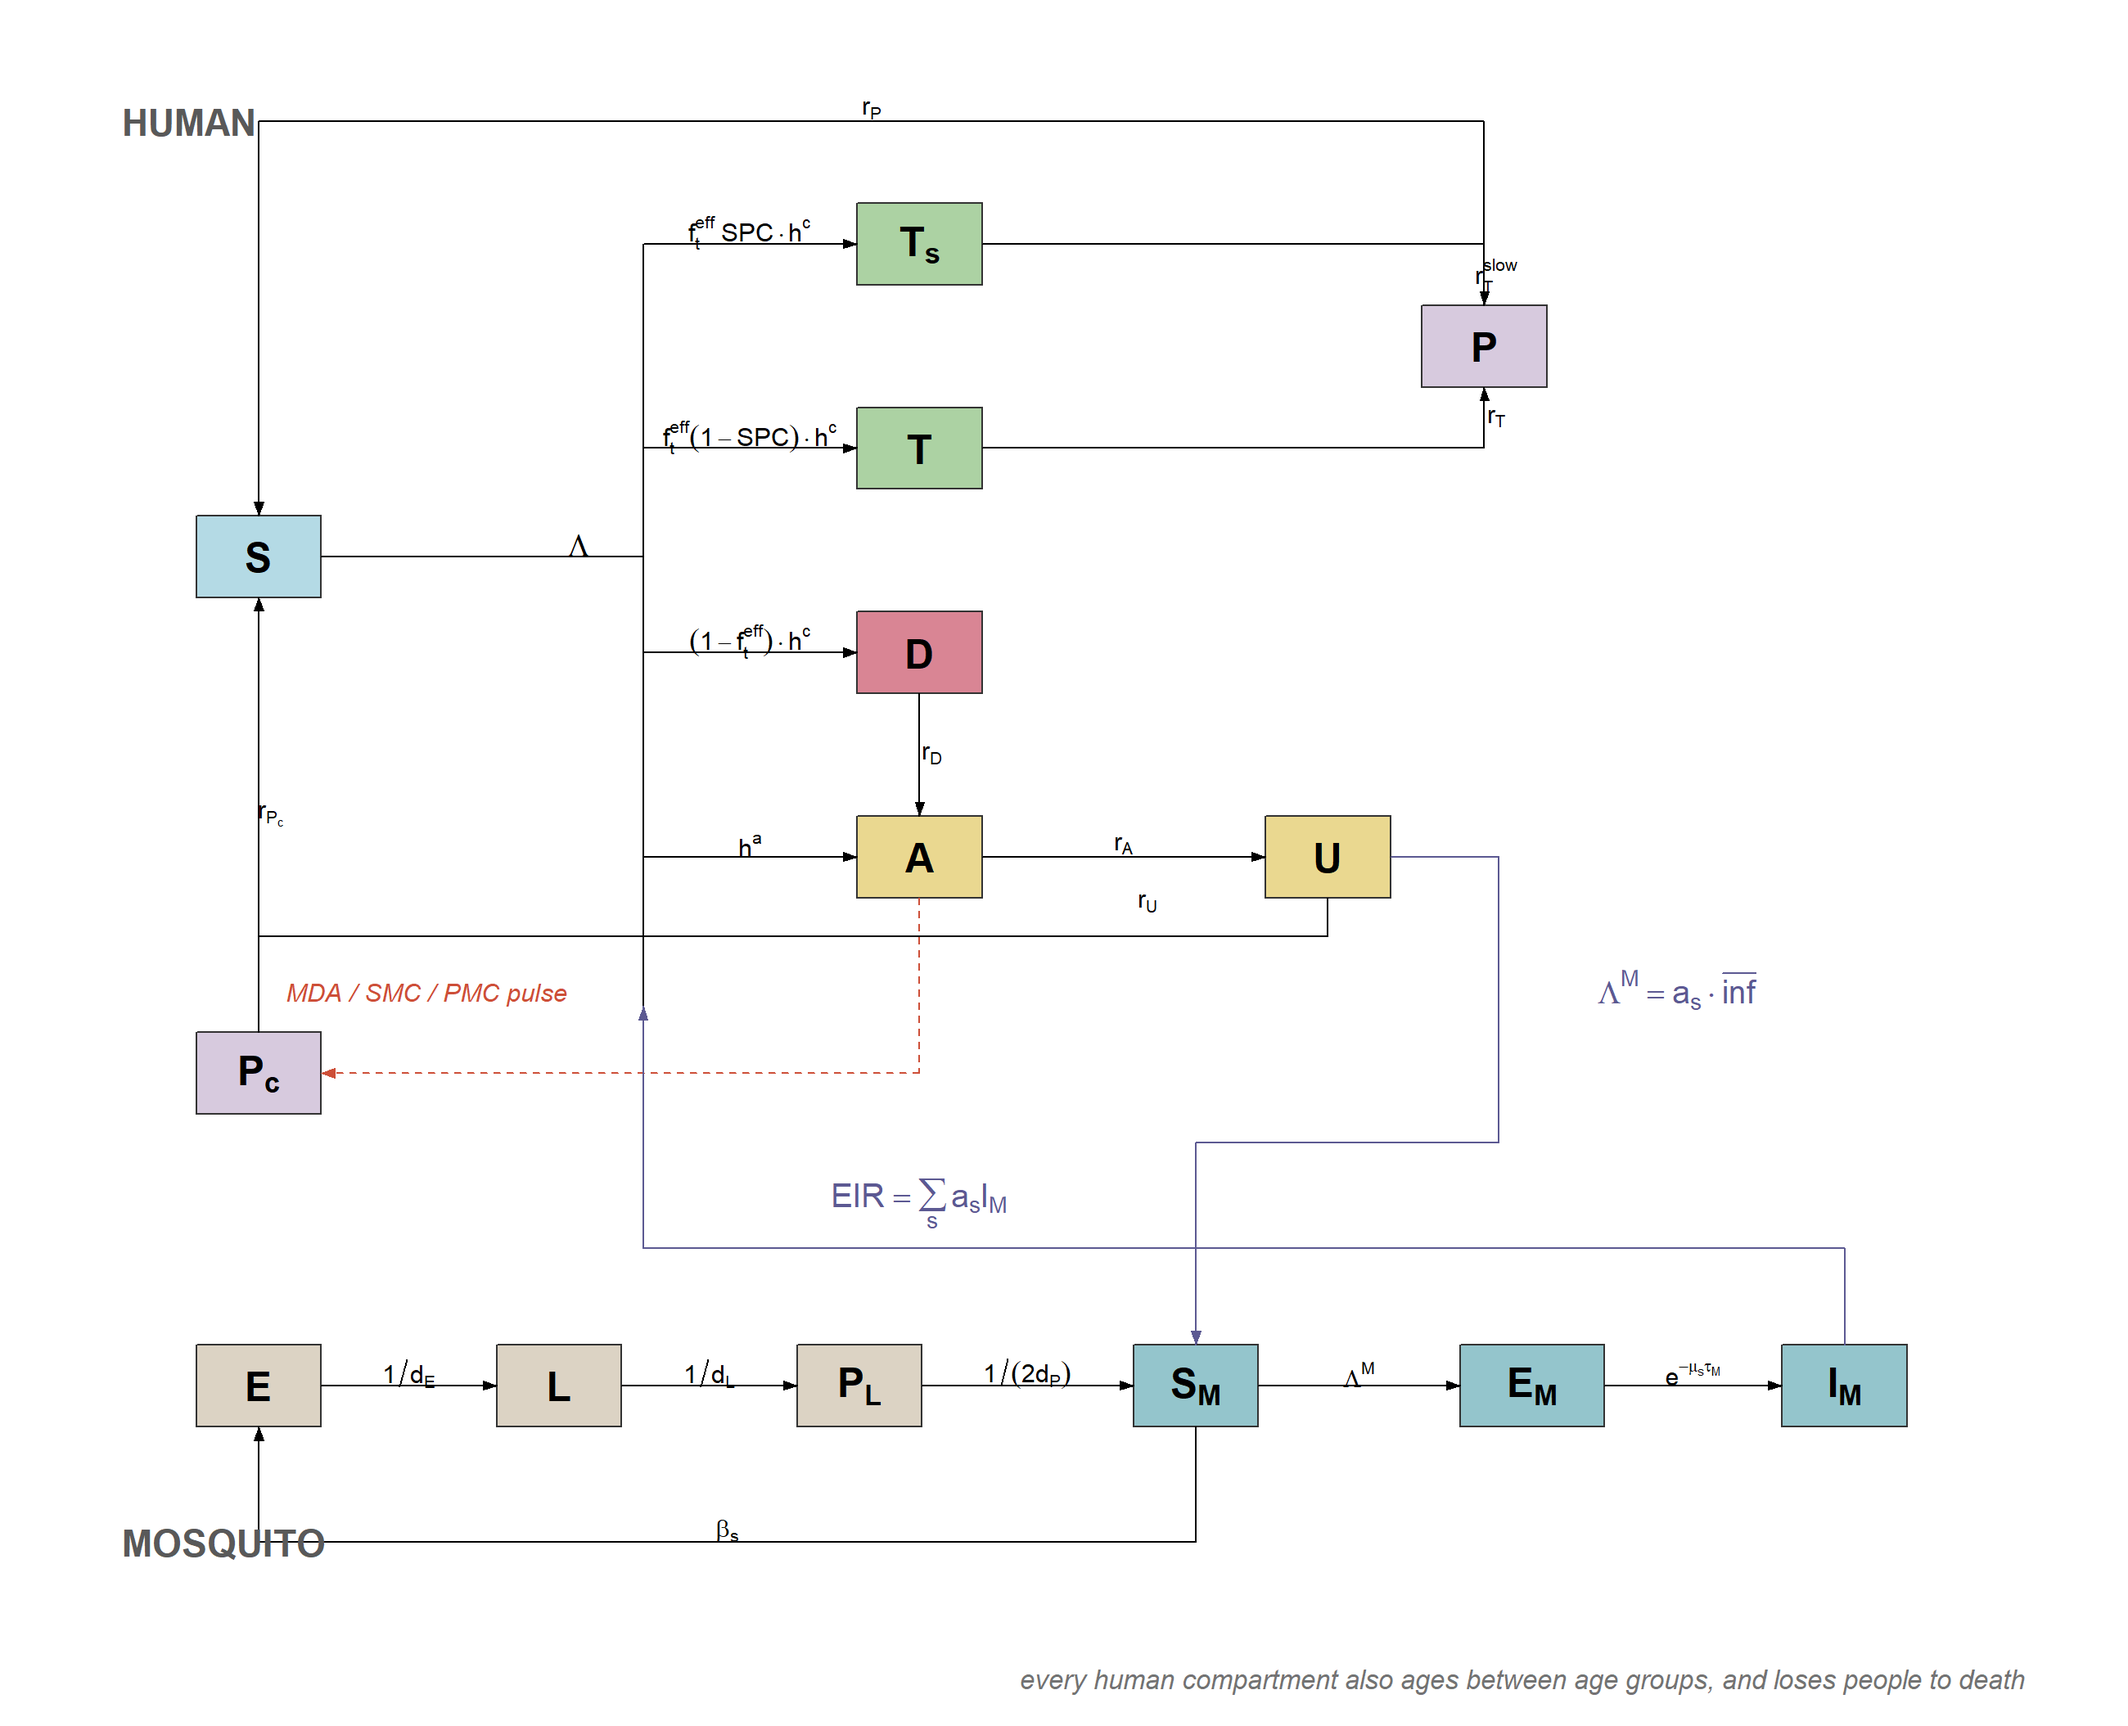
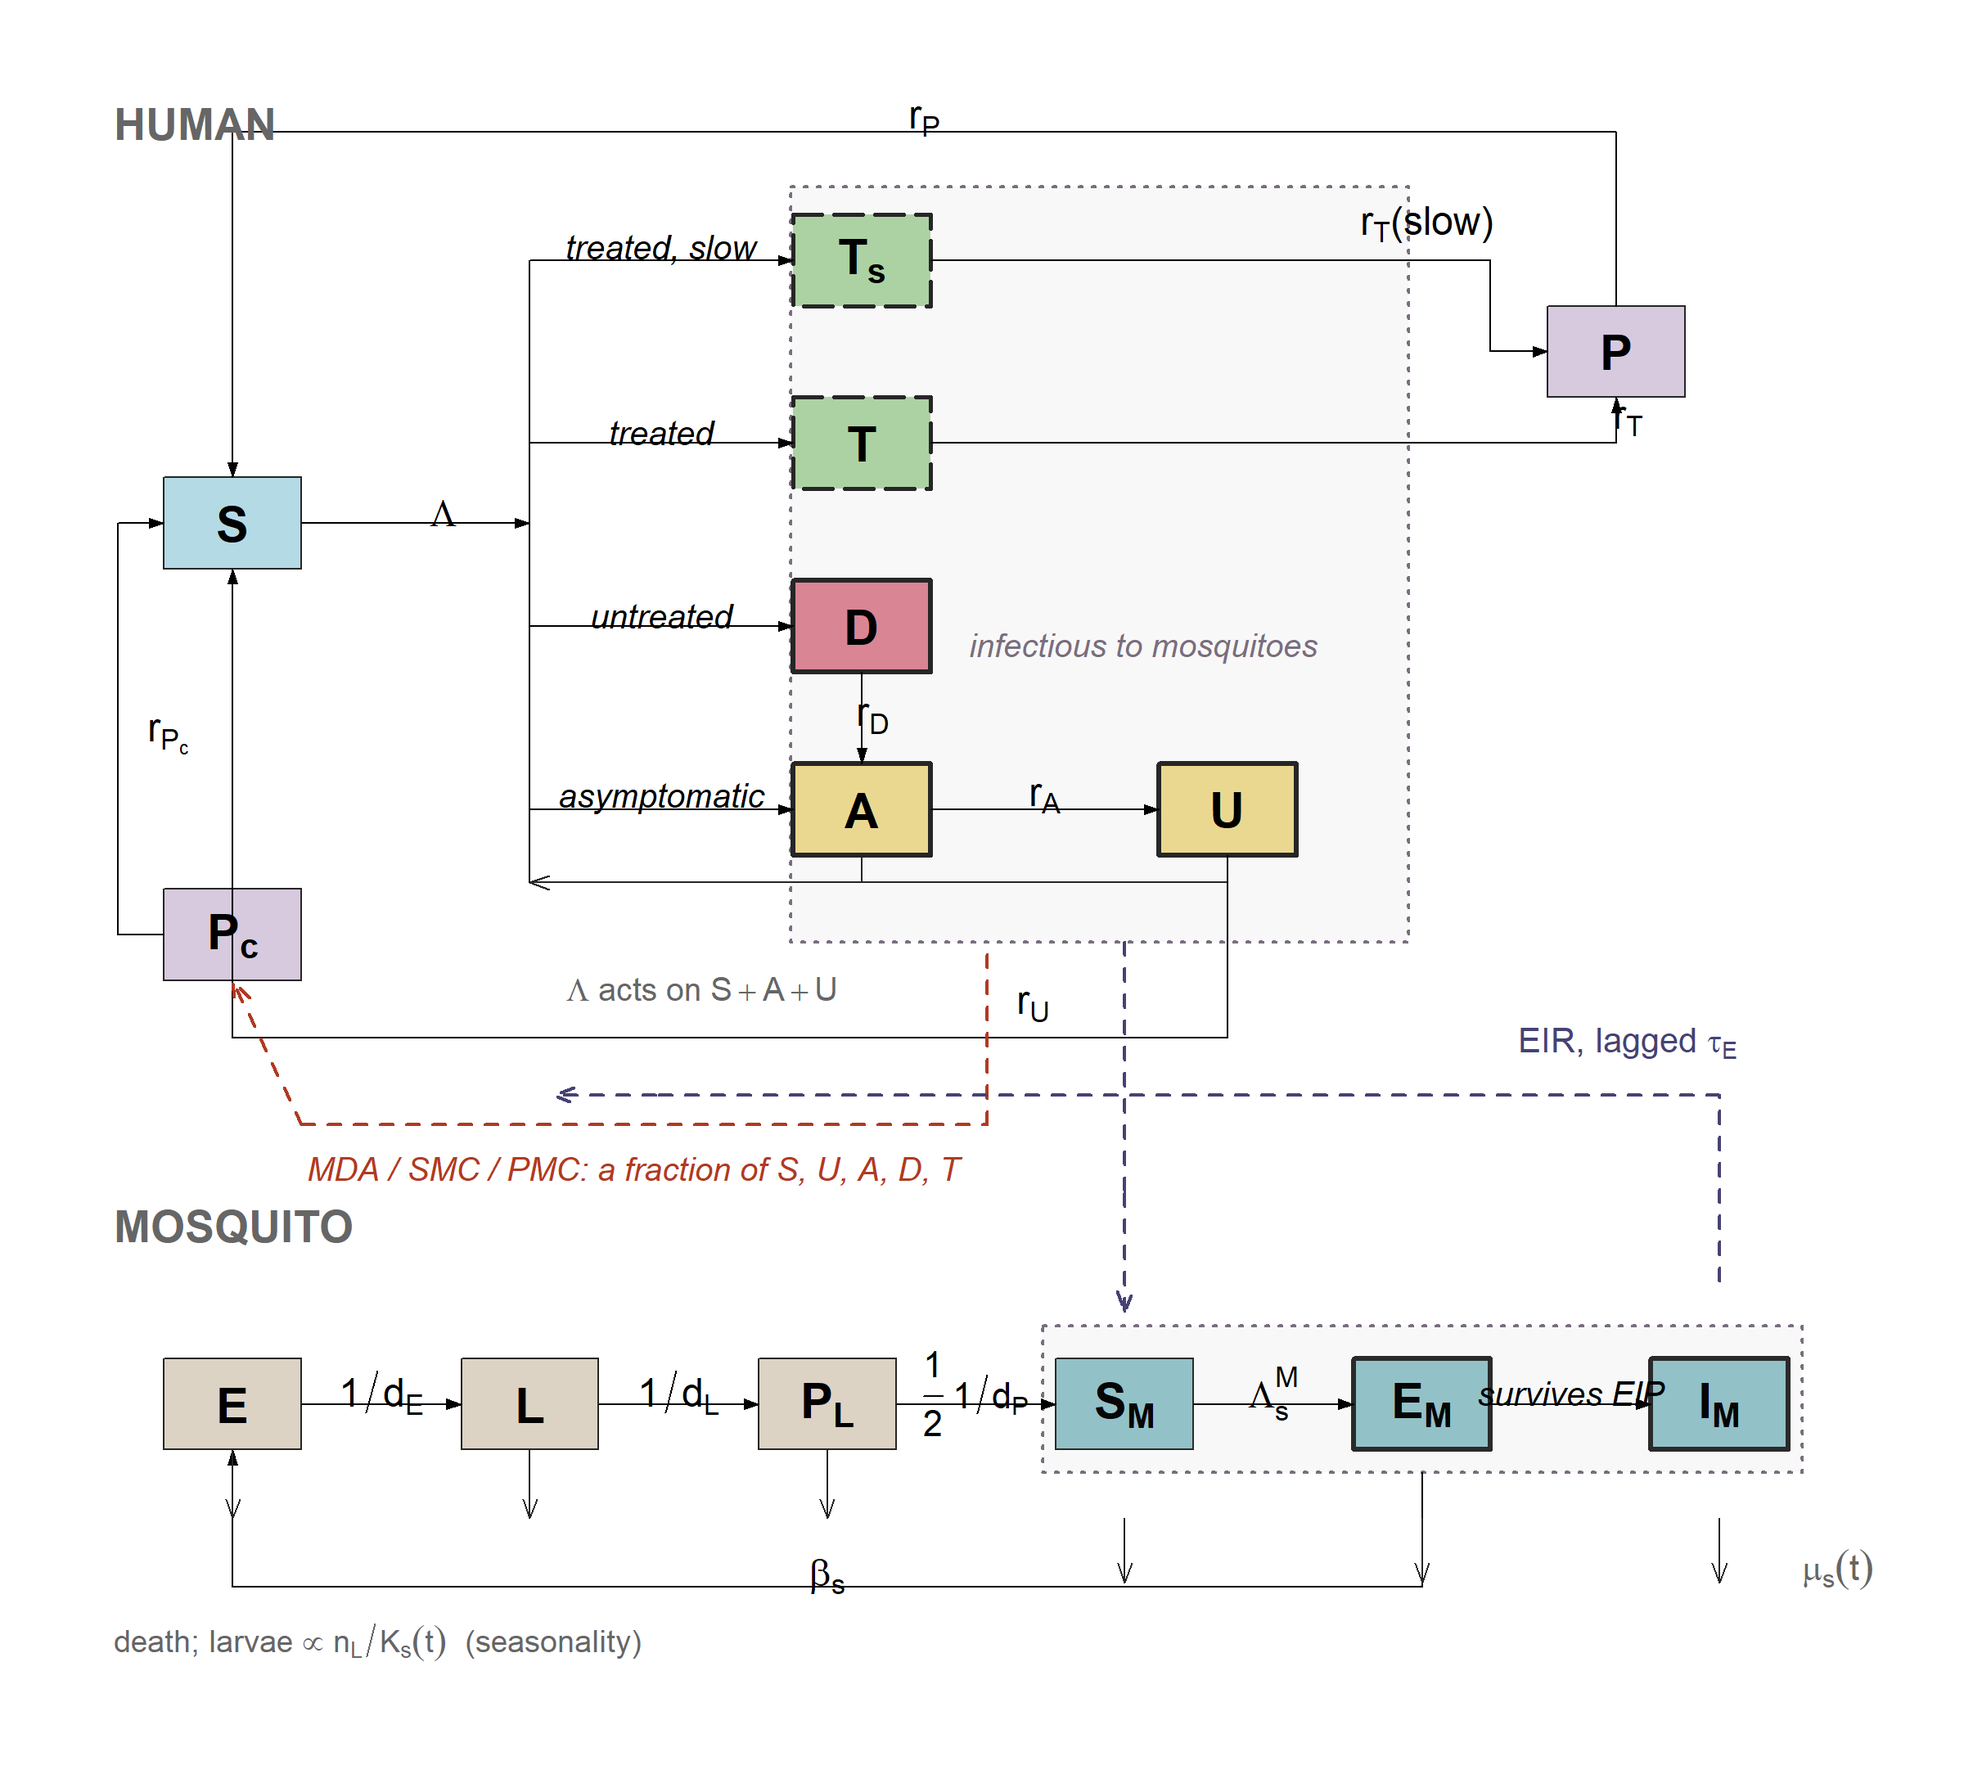
docs: rebuild the model flow diagram after an eleven-way review
The diagram stated several things the model does not do, and was unreadable at
the size it is actually displayed. Rebuilt against the odin source.

Accuracy — the previous figure was wrong about three flows:

* Infection was drawn leaving S alone. It acts on the whole at-risk pool
  S + A + U (malaria_ode.R:239, 249, 255): asymptomatic and sub-patent people
  can be re-infected, which at moderate transmission is where most clinical
  episodes come from. Now drawn with feeders from A and U into the spine.
* Oviposition was drawn leaving S_M. Eggs are laid by all adults,
  beta_eff * Mtot with Mtot = Sm + Em_tot + Im (malaria_ode.R:312, 317), so it
  now leaves a bracket spanning S_M/E_M/I_M. As drawn before it implied a
  fitness cost of infection the model does not have.
* The chemoprevention pulse was drawn leaving A. It clears S, U, A, D and T
  (interventions.R:351-361), and S is normally the largest source, so the
  primary mode of action of SMC/PMC — protecting the uninfected — was invisible.

Accuracy — three things were missing entirely:

* No mosquito or larval mortality anywhere, though mum is where every bed-net
  and IRS effect lands (malaria_ode.R:322, 341, 342) and mup drains pupae (:319).
* No larval density dependence or K_s(t) (:317-318), which is the entire
  seasonality mechanism and the model's only nonlinearity.
* E_M -> I_M was labelled e^{-mu tau}, a survival probability, on a figure whose
  caption said every arrow is a rate.
[…]

diff --git a/pkgdown/extra.scss b/pkgdown/extra.scss
@@ -246,6 +246,17 @@ main img {
   height: auto;
 }
 
+/* The generated figures are opaque-white PNGs with black linework, so in dark
+   mode they land as a bright slab on a dark page. Making them transparent is
+   the wrong fix (every arrow and label is black and would vanish); instead,
+   frame them so the white reads as deliberate paper. */
+[data-bs-theme="dark"] main img:not([src$=".svg"]) {
+  background: #fff;
+  padding: .75rem;
+  border-radius: .6rem;
+  box-shadow: 0 .35rem 1.1rem rgba(0, 0, 0, .45);
+}
+
 /* ---- Display maths ----------------------------------------------------- */
 /* A few of the appendix equations are wider than a narrow content column.
    Let them scroll in place rather than widening the whole page. */

diff --git a/README.md b/README.md
@@ -4,10 +4,13 @@
 
 ![The blink model](man/figures/model_flow.png)
 
-*The model at a glance: human compartments above, mosquito below, coupled by the
-EIR and the mosquito force of infection. Solid arrows are rates in the ODE; the
-dashed arrow is the one flow applied as a discrete pulse. Each human box is an
-array over age and biting heterogeneity — see `vignette("model")`.*
+*The model at a glance: human compartments above, mosquito below. Solid black
+arrows are flows of individuals — rates in the ODE. Dashed coloured arrows are
+not flows: the two couplings set a rate in the other panel, and the
+chemoprevention pulse is a discrete jump. The dotted region is the pool of states
+infectious to mosquitoes. Every human box is an array over age × biting
+heterogeneity; the immunity arrays and Erlang lag chains are not drawn — see
+`vignette("model")`.*
 
 ## What it is
 
